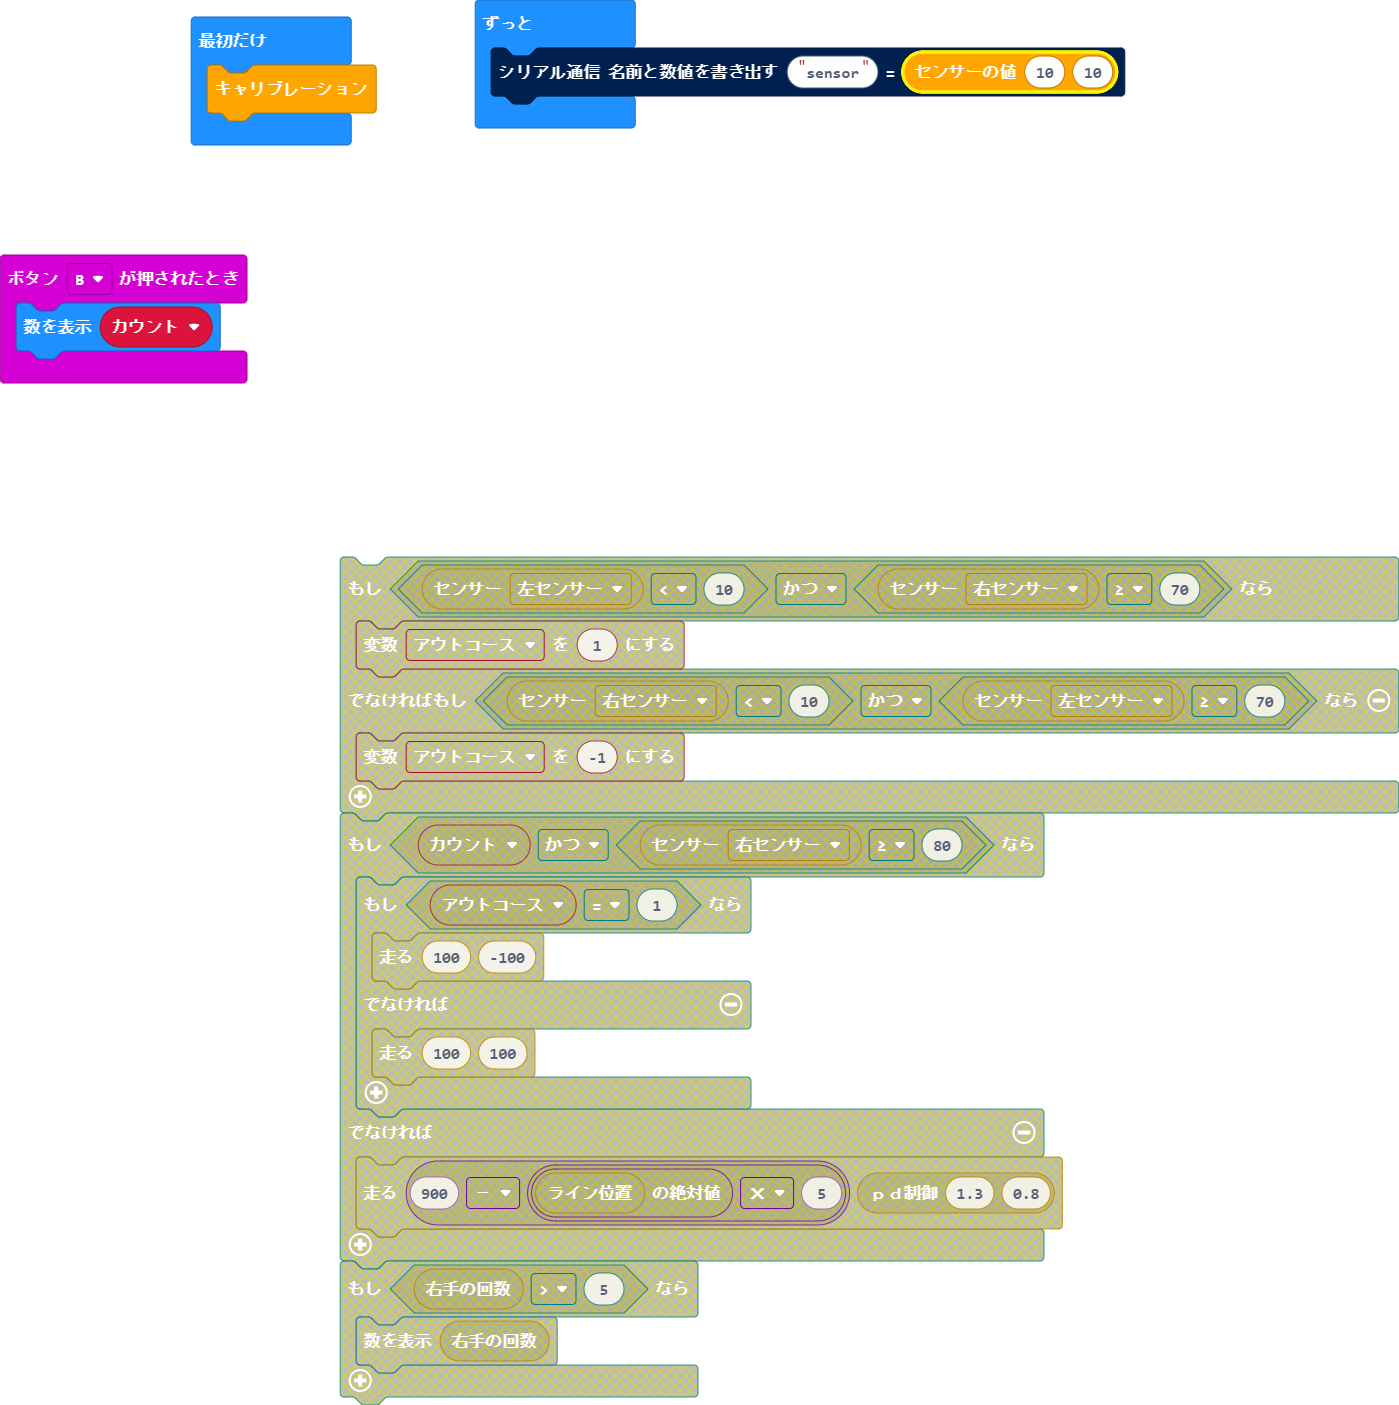
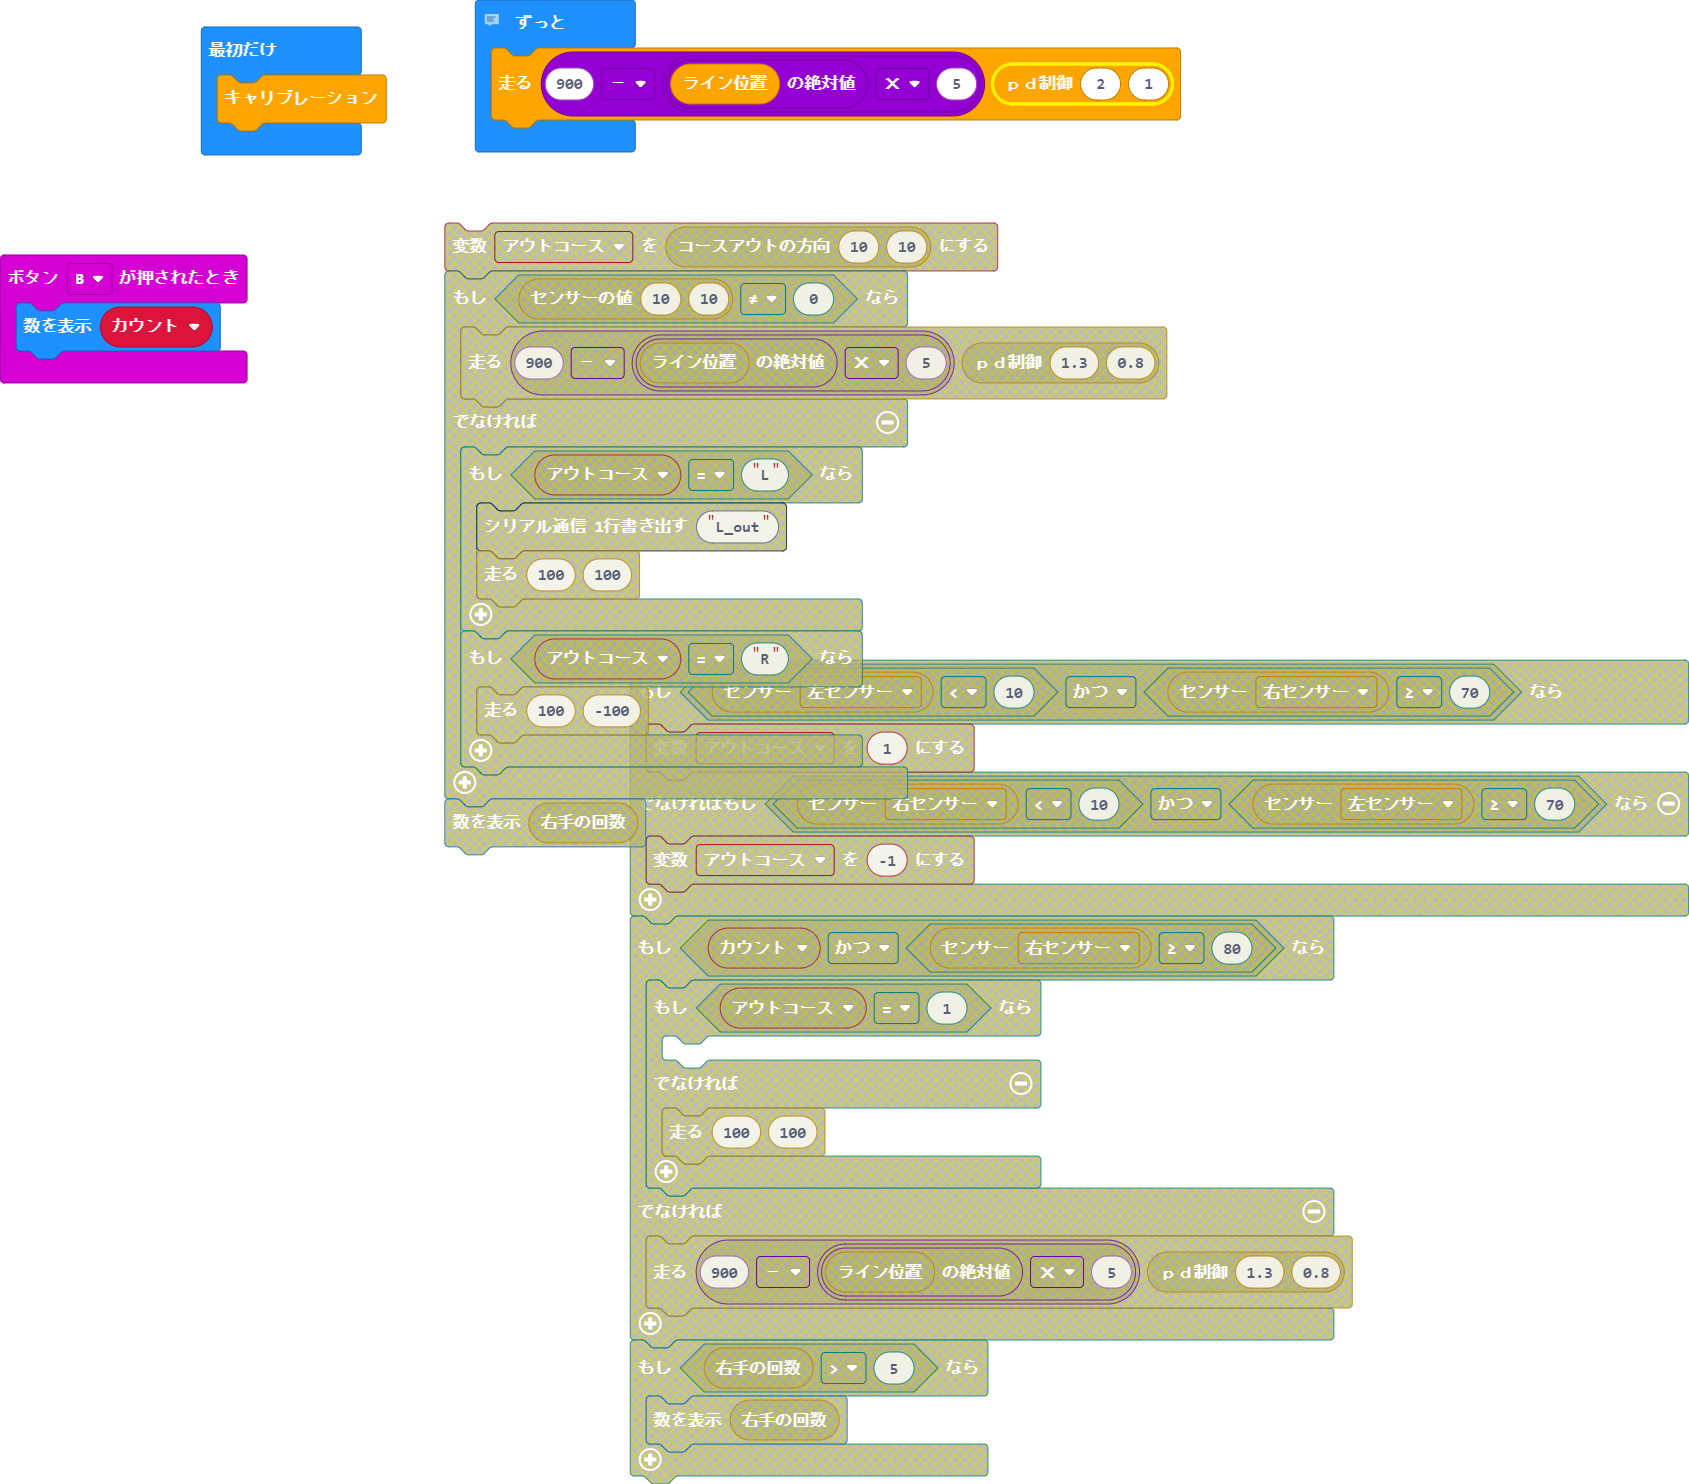
アウトコース方向

diff --git a/custom.ts b/custom.ts
@@ -37,6 +37,7 @@ namespace custom {
     let pre_pos = 0
     let state = 0
     let arm_count = 0
+    let outOFcurce = 'C'
 
     //% block
     export function 左モーター(L_speed: number): void {
@@ -193,6 +194,21 @@ namespace custom {
             s = s + 2
         }
         return s;
+    }
+
+    //% block
+    export function コースアウトの方向(th_L: number, th_R: number): string {
+
+        if (custom.センサーの値(th_L, th_R) == 1) {
+            outOFcurce = 'L'
+        }
+        if (custom.センサーの値(th_L, th_R) == 2) {
+            outOFcurce = 'R'
+        }
+        if (custom.センサーの値(th_L, th_R) == 3) {
+            outOFcurce = 'C'
+        }
+        return outOFcurce;
     }
 
     //% block

diff --git a/main.ts b/main.ts
@@ -3,6 +3,7 @@ input.onButtonPressed(Button.B, function () {
     basic.showNumber(カウント)
 })
 custom.キャリブレーション()
+// serial.writeValue("outOfcurce", custom.コースアウトの方向(10, 10))
 basic.forever(function () {
-    serial.writeValue("sensor", custom.センサーの値(10, 10))
+    custom.走る(900 - Math.abs(custom.ライン位置()) * 5, custom.ＰＤ制御(2, 1))
 })
